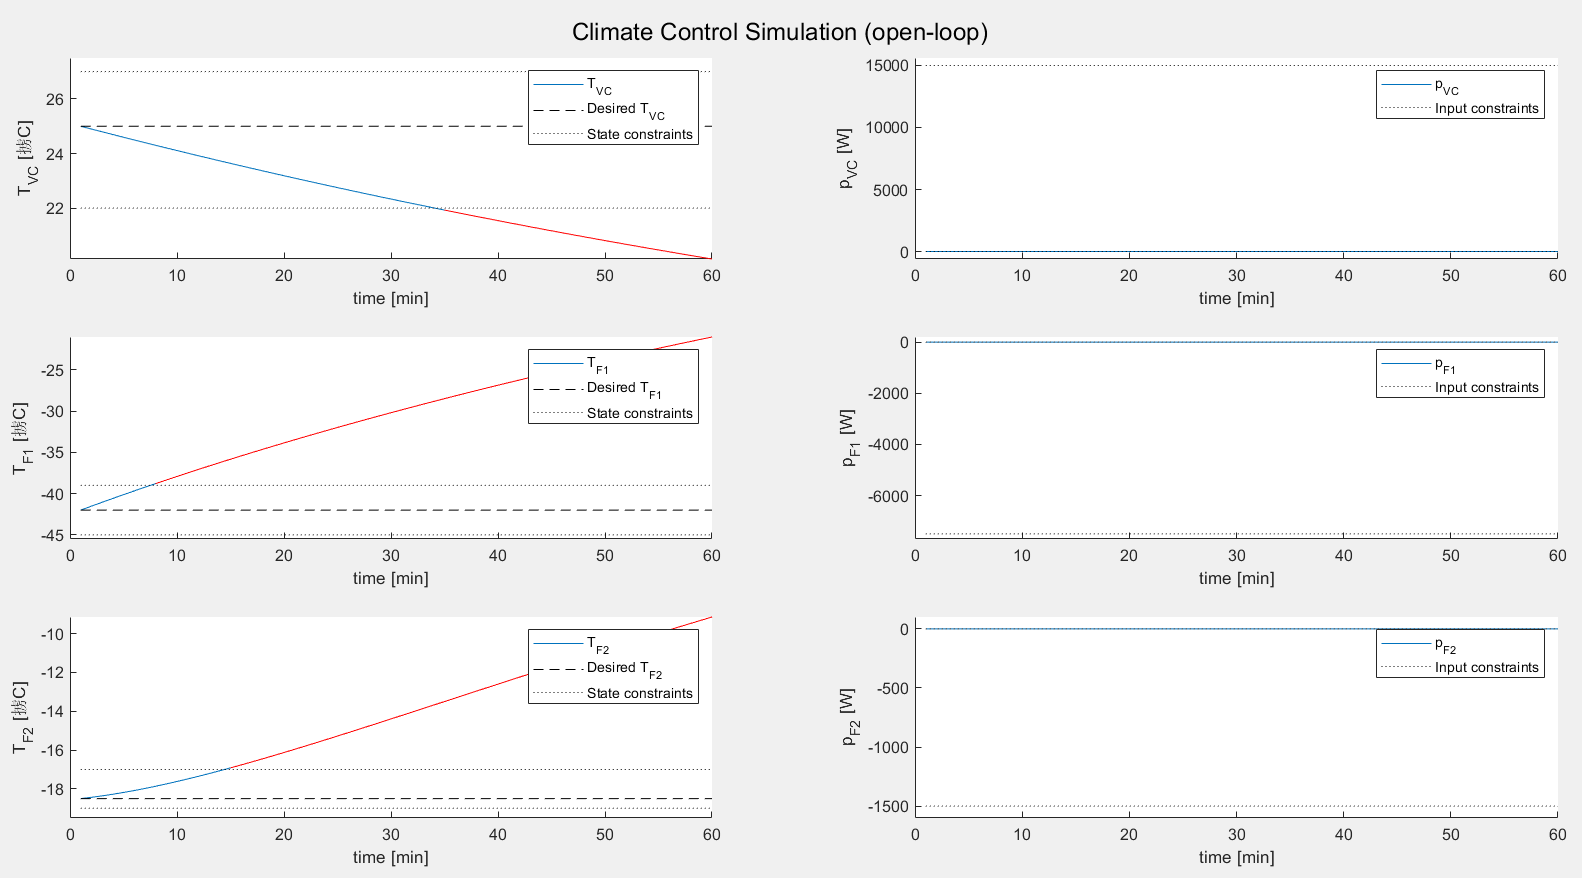
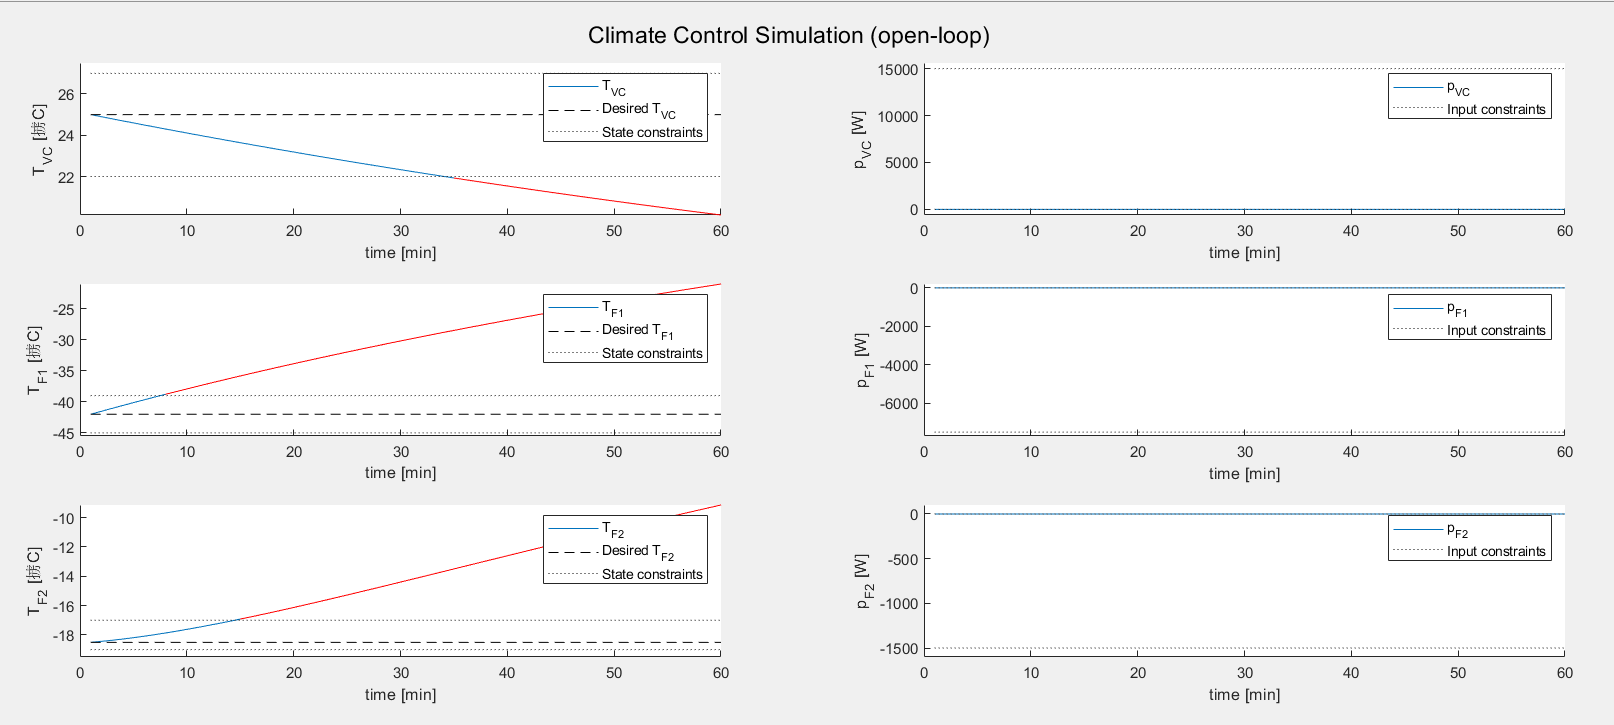
T11 done

diff --git a/src/run_simulations.m b/src/run_simulations.m
@@ -5,16 +5,6 @@ addpath(genpath(cd));
 rng(1234)
 load('system/parameters_scenarios.mat')
 
-param = compute_controller_base_parameters;
-T_sp = param.T_sp;
-T0_1 = T_sp + [-2.25;1.75;0.75];
-% T_sp = ...
-% dT0_exmaple = ...
-% T0_example = ...
-%% Open loop sim without control (Task 5)
-% figure; set(gcf, 'WindowStyle' ,'docked');
-% simulate_building(T_sp);
-
 %% Example
 % figure; set(gcf, 'WindowStyle' ,'docked');
 % clear persisten variables of function controller_example
@@ -22,20 +12,44 @@ T0_1 = T_sp + [-2.25;1.75;0.75];
 % execute simulation
 % [T,~,~,t] = simulate_building(T0_example,@controller_example);
 
+%% Config here
+param = compute_controller_base_parameters;
+load('Q_sim.mat')
+load('R_sim.mat')
+T_sp = param.T_sp;
+T0_1 = T_sp + [-2.25;1.75;0.75];
+T0_2 = T_sp + [1.5;2.75;-0.25];
+
+%% Open loop sim without control (Task 5)
+
+% figure(5); set(gcf, 'WindowStyle' ,'docked');
+% simulate_building(T_sp);
 
 %% Unconstrained optimal control
-disp('Unconstraint optimal control');
-
-% Uncontrolled system
-%figure(1); set(gcf, 'WindowStyle' ,'docked');
-%...
-
-% Tuning of LQR on first initial condition
-[Q,R] = heuristic_LQR_tuning(2500, T0_1, T_sp, scen1);
-
+% disp('Unconstraint optimal control');
+% [Q,R] = heuristic_LQR_tuning(2500, T0_1, T_sp, scen1);
+% 
+% figure(7); set(gcf, 'WindowStyle' ,'docked');
+% clear controller_lqr;
+% simulate_building(T0_1, @controller_lqr, Q, R, scen1); % Task7
+% 
+% figure(8); set(gcf, 'WindowStyle' ,'docked');
+% clear controller_lqr;
+% simulate_building(T0_2, @controller_lqr, Q, R, scen1); % Task8
 %% From LQR to MPC
-disp('First MPC'); 
-
+% disp('First MPC'); 
+% [A_x, b_x] = compute_X_LQR(Q, R);
+% % Task10
+% [K,S,e] = dlqr(param.A, param.B, Q, R);
+% J0_1 = (T0_1-T_sp)'*S*(T0_1-T_sp);
+% J0_2 = (T0_2-T_sp)'*S*(T0_2-T_sp);
+% disp(J0_1)
+% disp(J0_2)
+% Task11
+figure(11); set(gcf, 'WindowStyle' ,'docked');
+clear controller_mpc_1;
+simulate_building(T0_1, @controller_mpc_1, Q, R, scen1); % Task11-1
+simulate_building(T0_2, @controller_mpc_1, Q, R, scen1); % Task11-2
 %% MPC with guarantees
 disp('MPC with guarantees');
 

diff --git a/src/controller_mpc_1.m b/src/controller_mpc_1.m
@@ -18,32 +18,43 @@ if isempty(param)
     [param, yalmip_optimizer] = init(Q, R, N);
 end
 
-% evaluate control action by solving MPC problem
-% [u_mpc,errorcode] = yalmip_optimizer(...);
-% if (errorcode ~= 0)
-%     warning('MPC1 infeasible');
-% end
-% p = ...
+%% evaluate control action by solving MPC problem
+[u_mpc,errorcode] = yalmip_optimizer(T - param.T_sp);
+if (errorcode ~= 0)
+    warning('MPC1 infeasible');
+end
+p = u_mpc + param.p_sp;
 end
 
 function [param, yalmip_optimizer] = init(Q, R, N)
 % get basic controller parameters
-% ...
+param = compute_controller_base_parameters; 
 % get terminal cost
-% ...
+[K, S, e] = dlqr(param.A, param.B, Q, R);
+
 % implement your MPC using Yalmip here
-% nx = size(param.A,1);
-% nu = size(param.B,2);
-% U = sdpvar(repmat(nu,1,N-1),ones(1,N-1),'full');
-% X = sdpvar(repmat(nx,1,N),ones(1,N),'full');
-% T0 = sdpvar(nx,1,'full');
-% objective = ...;
-% constraints = [...];
-% for k = 1:N-1
-%     constraints = [constraints,... ];
-%     objective = objective + ...;
-% end
-% objective = objective + ...;
-% ops = sdpsettings('verbose',0,'solver','quadprog');
-% yalmip_optimizer = optimizer(constraints,objective,ops,...,...);
+nx = size(param.A,1);
+nu = size(param.B,2);
+U = sdpvar(repmat(nu,1,N-1),ones(1,N-1),'full');
+X = sdpvar(repmat(nx,1,N),ones(1,N),'full');
+
+Ax=[eye(3);-eye(3)];
+bx=[param.Xcons(:,2);-param.Xcons(:,1)];
+Au=[eye(3);-eye(3)];
+bu=[param.Ucons(:,2);-param.Ucons(:,1)];
+
+objective = 0;
+constraints = [];
+for k = 1:N-1
+    constraints = [constraints, X{k+1} == param.A*X{k} + param.B*U{k}];
+
+    constraints = [constraints, Ax*X{k+1} <= bx];
+    constraints = [constraints, Au*U{k} <= bu];
+    objective = objective + X{k}'*Q*X{k} + U{k}'*R*U{k};
+end
+objective = objective + X{end}'*S*X{end};
+x0 = sdpvar(3,1);
+constraints = [constraints, X{1} == x0];
+ops = sdpsettings('verbose',0,'solver','quadprog');
+yalmip_optimizer = optimizer(constraints,objective,ops,x0,U{1});
 end

diff --git a/src/compute_X_LQR.m b/src/compute_X_LQR.m
@@ -8,8 +8,21 @@
 
 function [A_x, b_x] = compute_X_LQR(Q, R)
     % get basic controller parameters
-    % param = ...
-    % implement the X_LQR computation and assign the result
-    % A_x = ...
-    % b_x = ...
+    param = compute_controller_base_parameters;
+    A = param.A;
+    B = param.B;
+    [K,S,e] = dlqr(A,B,Q,R);
+    sys_LQR = LTISystem('A', A - B * K);
+    Xmax = param.Xcons(:,2);
+    Xmin = param.Xcons(:,1);
+    Umax = param.Ucons(:,2);
+    Umin = param.Ucons(:,1);
+    Xp = Polyhedron('A',[eye(3);-eye(3);K;-K;],'b',[Xmax; -Xmin; Umax; -Umin;]);
+    figure(9); hold on; grid on;
+    sys_LQR.x.with('setConstraint');
+    sys_LQR.x.setConstraint = Xp;
+    InvSetLQR = sys_LQR.invariantSet();
+    InvSetLQR.plot(), alpha(0.25), title('Invariant Set under LQR Control'), xlabel('x_1'), ylabel('x_2'),zlabel('x_3')
+    A_x = InvSetLQR.A;
+    b_x = InvSetLQR.b;
 end

diff --git a/src/heuristic_LQR_tuning.m b/src/heuristic_LQR_tuning.m
@@ -12,13 +12,14 @@
 function [Q, R] = heuristic_LQR_tuning(n_samples, T0, T_sp, scen)
 
 % define a figure
-figure; set(gcf, 'WindowStyle' ,'docked'); grid on; hold on
+figure(6); set(gcf, 'WindowStyle' ,'docked'); grid on; hold on
 xlabel('Energy consumption [kWh]'); 
 ylabel('Relative norm of steady state deviation');
 % define R and bestQ
 R = eye(3); Q = eye(3);
 % define dT_rel
 dT_rel = 999;
+pwr = 0;
 
 % Loop
 for index = 1:n_samples
@@ -37,8 +38,14 @@ for index = 1:n_samples
     if power_sum<16
         if dT_relative<dT_rel
             dT_rel = dT_relative;
+            pwr = power_sum;
             Q = Q_ind;
+            disp(['Index = ' num2str(index)]);
+            disp(Q);
         end
     end
 end
+scatter(pwr,dT_rel,'green','d','filled');
+save("Q_sim.mat",'Q');
+save("R_sim.mat",'R');
 end
